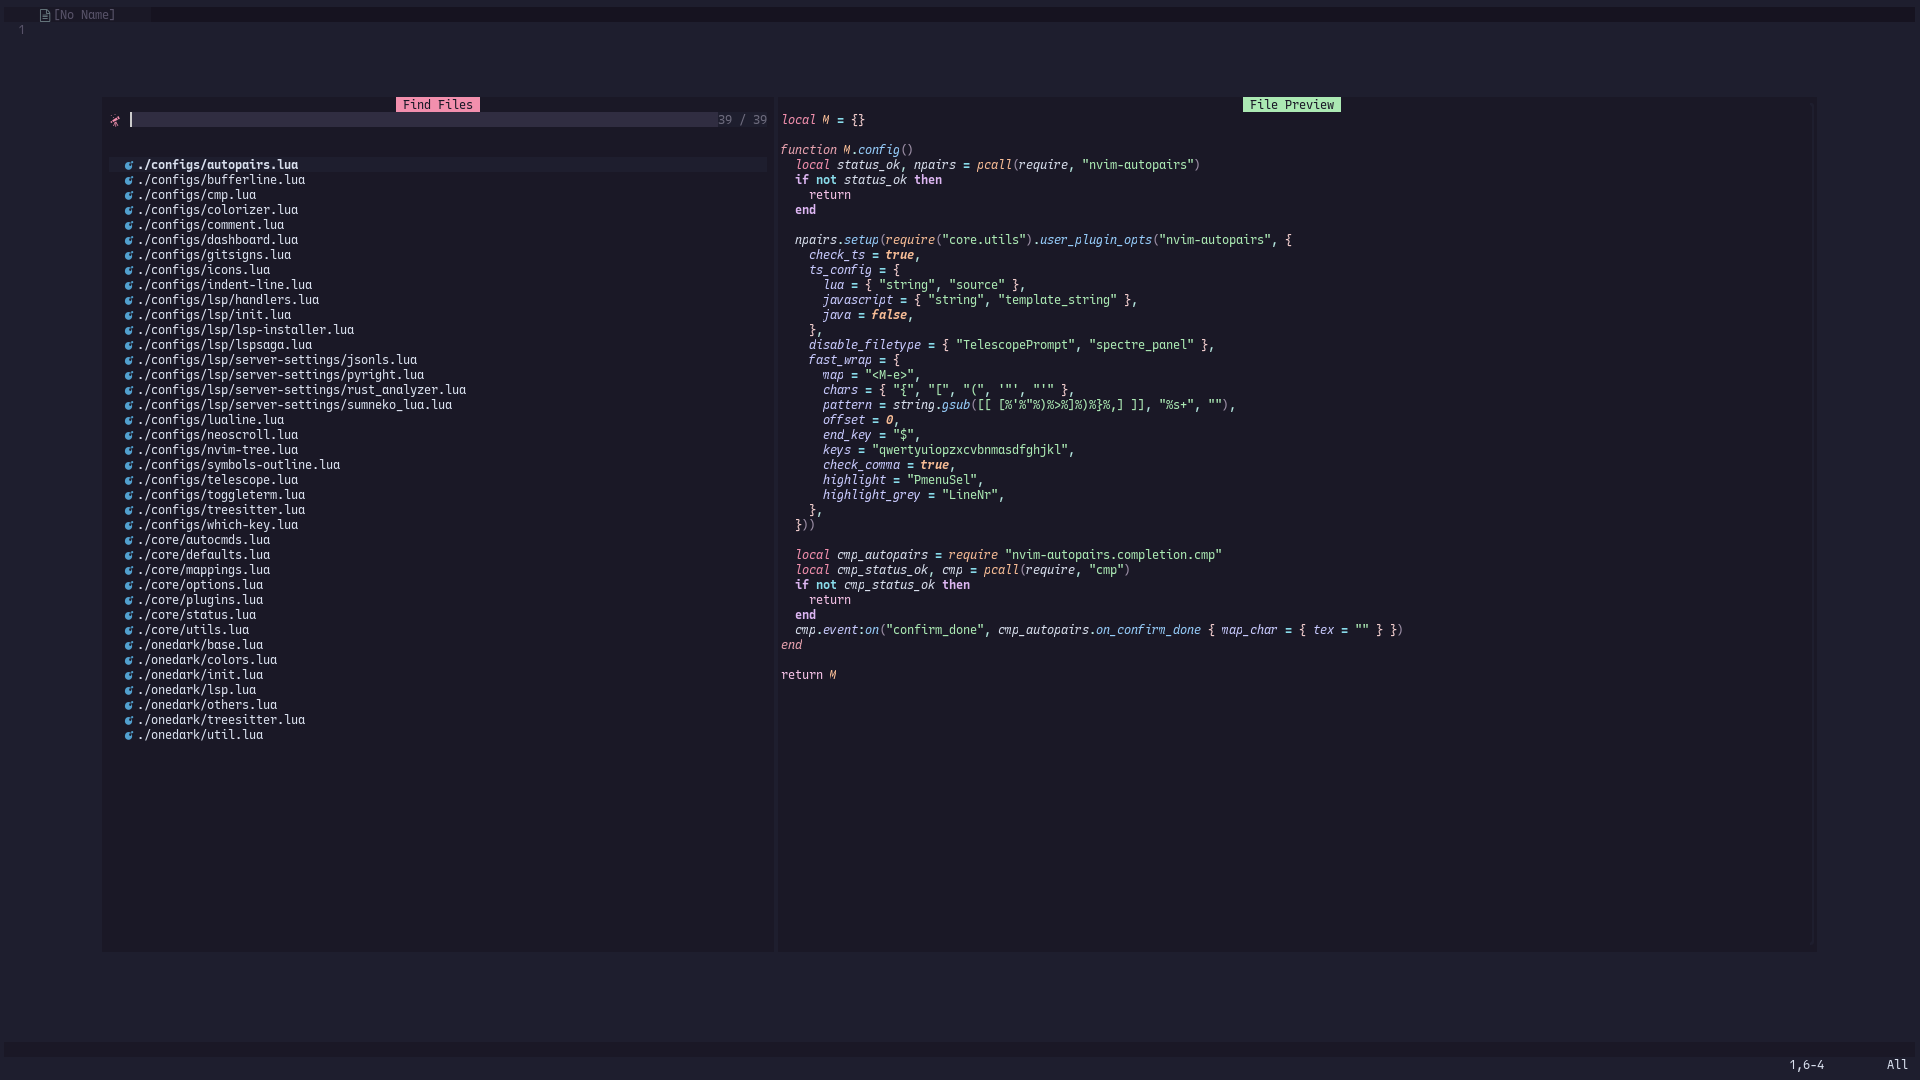
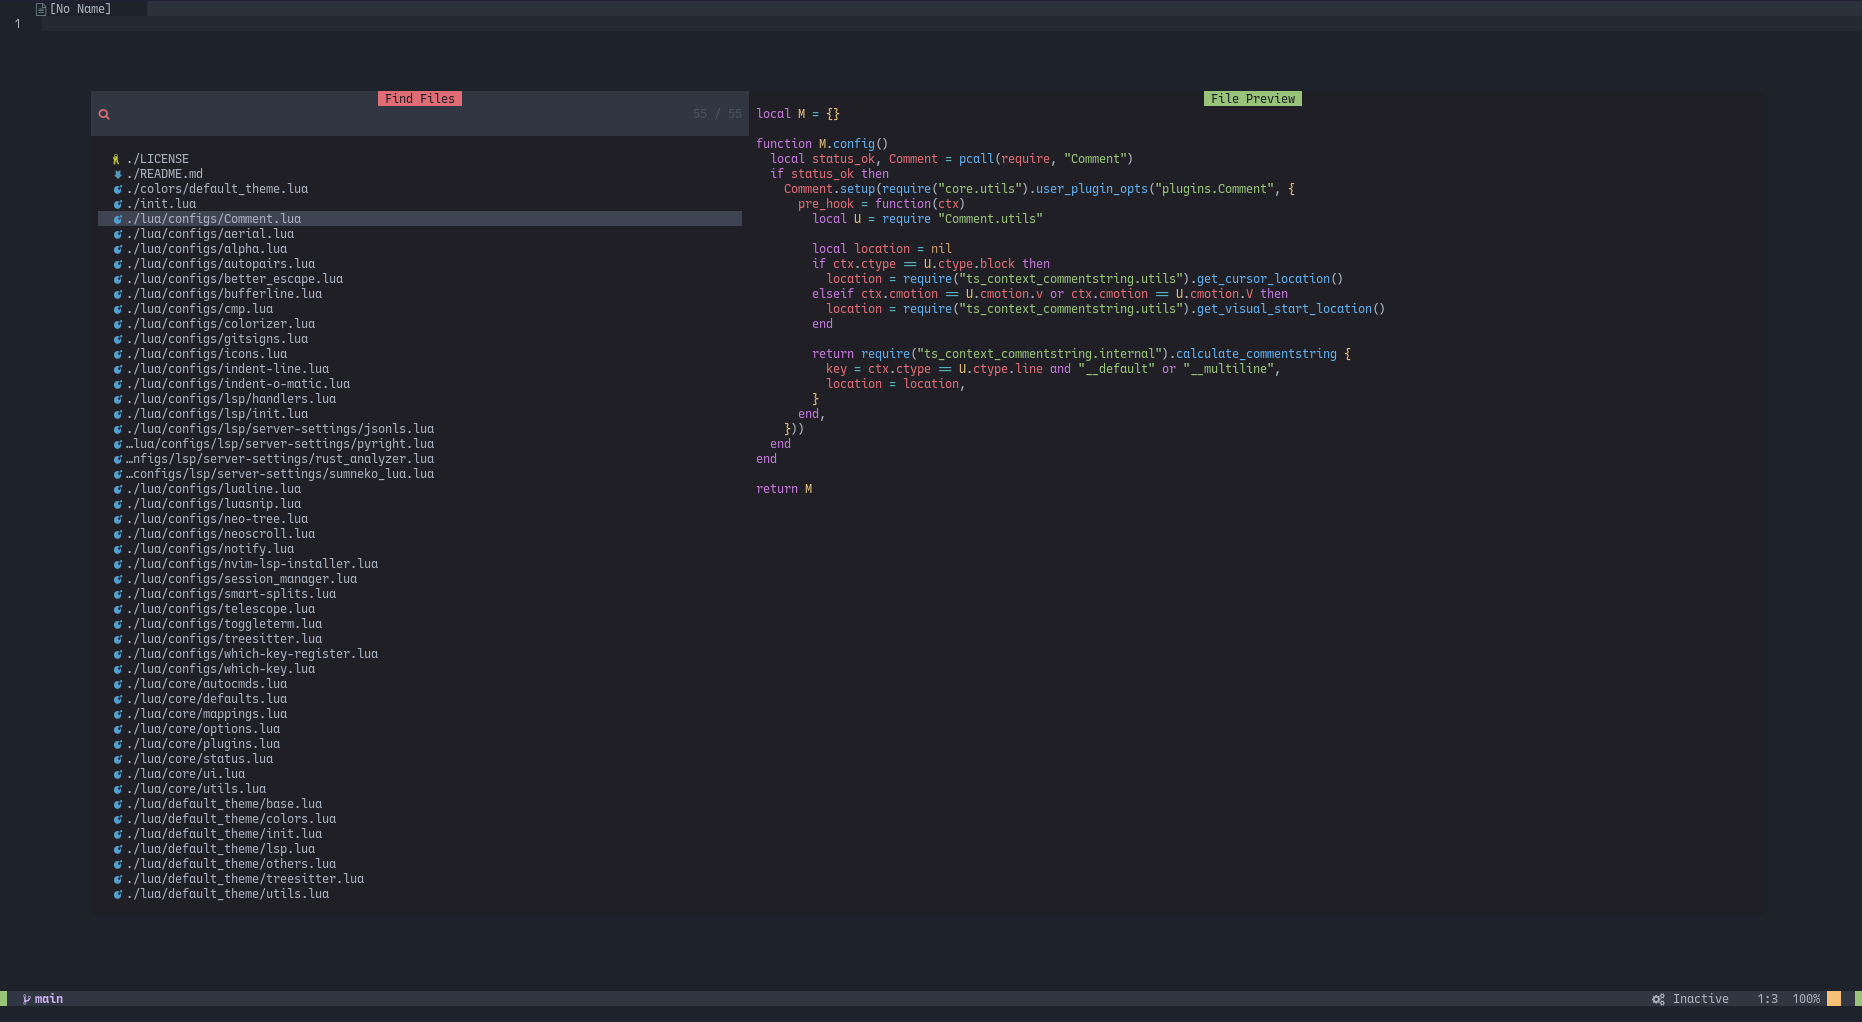
update nvchad telescope theme recipe

diff --git a/docs/recipes/telescope_theme.md b/docs/recipes/telescope_theme.md
@@ -3,107 +3,39 @@ id: telescope_theme
 title: NvChad Telescope Theme
 ---
 
-These code snippets make the telescope look like the default NvChad telescope theme:
+This code snippet make the default theme telescope look like the default NvChad telescope theme:
 
 ![Screenshot of telescope theme](/img/recipes/telescope_theme.png)
-
-Create file `user/theme.lua`:
-
-```lua
-local M = {}
-
-function M.hi_colors()
-  local colors = {
-    bg = "#16161D",
-    bg_alt = "#1F1F28",
-    fg = "#DCD7BA",
-    green = "#76946A",
-    red = "#E46876",
-  }
-  local color_binds = {
-    bg = { group = "NormalFloat", property = "background" },
-    bg_alt = { group = "Cursor", property = "foreground" },
-    fg = { group = "Cursor", property = "background" },
-    green = { group = "diffAdded", property = "foreground" },
-    red = { group = "diffRemoved", property = "foreground" },
-  }
-  local function get_hl_by_name(name)
-    local ret = vim.api.nvim_get_hl_by_name(name.group, true)
-    return string.format("#%06x", ret[name.property])
-  end
-  for k, v in pairs(color_binds) do
-    local found, color = pcall(get_hl_by_name, v)
-    if found then
-      colors[k] = color
-    end
-  end
-  return colors
-end
-
-function M.telescope_theme()
-  local colors = M.hi_colors()
-  vim.api.nvim_set_hl(0, "TelescopeBorder", { fg = colors.bg_alt, bg = colors.bg })
-  vim.api.nvim_set_hl(0, "TelescopePromptBorder", { fg = colors.bg, bg = colors.bg })
-  vim.api.nvim_set_hl(0, "TelescopePromptNormal", { fg = colors.fg, bg = colors.bg_alt })
-  vim.api.nvim_set_hl(0, "TelescopePromptPrefix", { fg = colors.red, bg = colors.bg })
-  vim.api.nvim_set_hl(0, "TelescopePreviewTitle", { fg = colors.bg, bg = colors.green })
-  vim.api.nvim_set_hl(0, "TelescopePromptTitle", { fg = colors.bg, bg = colors.red })
-  vim.api.nvim_set_hl(0, "TelescopeResultsTitle", { fg = colors.bg, bg = colors.bg })
-  vim.api.nvim_set_hl(0, "TelescopeResultsBorder", { fg = colors.bg, bg = colors.bg })
-  vim.api.nvim_set_hl(0, "LvimInfoHeader", { fg = colors.bg, bg = colors.green })
-  vim.api.nvim_set_hl(0, "LvimInfoIdentifier", { fg = colors.red, bg = colors.bg_alt })
-  vim.api.nvim_set_hl(0, "TelescopeSelection", { bg = colors.bg_alt })
-  vim.api.nvim_set_hl(0, "TelescopeNormal", { bg = colors.bg })
-end
-
-return M
-```
 
 `user/init.lua`:
 
 ```lua
 return {
-  plugins = {
-    telescope = {
-      defaults = {
-        prompt_prefix = "  ",
-        borderchars = {
-          prompt = { "─", "│", "─", "│", "╭", "╮", "╯", "╰" },
-          results = { "─", "▐", "─", "│", "╭", "▐", "▐", "╰" },
-          preview = { " ", "│", " ", "▌", "▌", "╮", "╯", "▌" },
-        },
-        selection_caret = "  ",
-        layout_config = {
-          width = 0.90,
-          height = 0.85,
-          preview_cutoff = 120,
-          horizontal = {
-            preview_width = function(_, cols, _)
-              return math.floor(cols * 0.6)
-            end,
-          },
-          vertical = {
-            width = 0.9,
-            height = 0.95,
-            preview_height = 0.5,
-          },
-          flex = {
-            horizontal = {
-              preview_width = 0.9,
-            },
-          },
-        },
-        layout_strategy = "horizontal",
-      },
-    },
+  default_theme = {
+    colors = function(C)
+      C.telescope_green = C.green
+      C.telescope_red = C.red
+      C.telescope_fg = C.fg
+      C.telescope_bg = C.black_1
+      C.telescope_bg_alt = C.bg_1
+      return C
+    end,
+    highlights = function(hl)
+      local C = require "default_theme.colors"
+      hl.TelescopeBorder = { fg = C.telescope_bg_alt, bg = C.telescope_bg }
+      hl.TelescopeNormal = { bg = C.telescope_bg }
+      hl.TelescopePreviewBorder = { fg = C.telescope_bg, bg = C.telescope_bg }
+      hl.TelescopePreviewNormal = { bg = C.telescope_bg }
+      hl.TelescopePreviewTitle = { fg = C.telescope_bg, bg = C.telescope_green }
+      hl.TelescopePromptBorder = { fg = C.telescope_bg_alt, bg = C.telescope_bg_alt }
+      hl.TelescopePromptNormal = { fg = C.telescope_fg, bg = C.telescope_bg_alt }
+      hl.TelescopePromptPrefix = { fg = C.telescope_red, bg = C.telescope_bg_alt }
+      hl.TelescopePromptTitle = { fg = C.telescope_bg, bg = C.telescope_red }
+      hl.TelescopeResultsBorder = { fg = C.telescope_bg, bg = C.telescope_bg }
+      hl.TelescopeResultsNormal = { bg = C.telescope_bg }
+      hl.TelescopeResultsTitle = { fg = C.telescope_bg, bg = C.telescope_bg }
+      return hl
+    end,
   },
-
-  polish = function()
-    vim.api.nvim_create_autocmd({ "VimEnter", "ColorScheme" }, {
-      desc = "Set up telescope theme",
-      pattern = "*",
-      callback = require("user.theme").telescope_theme,
-    })
-  end,
 }
 ```
